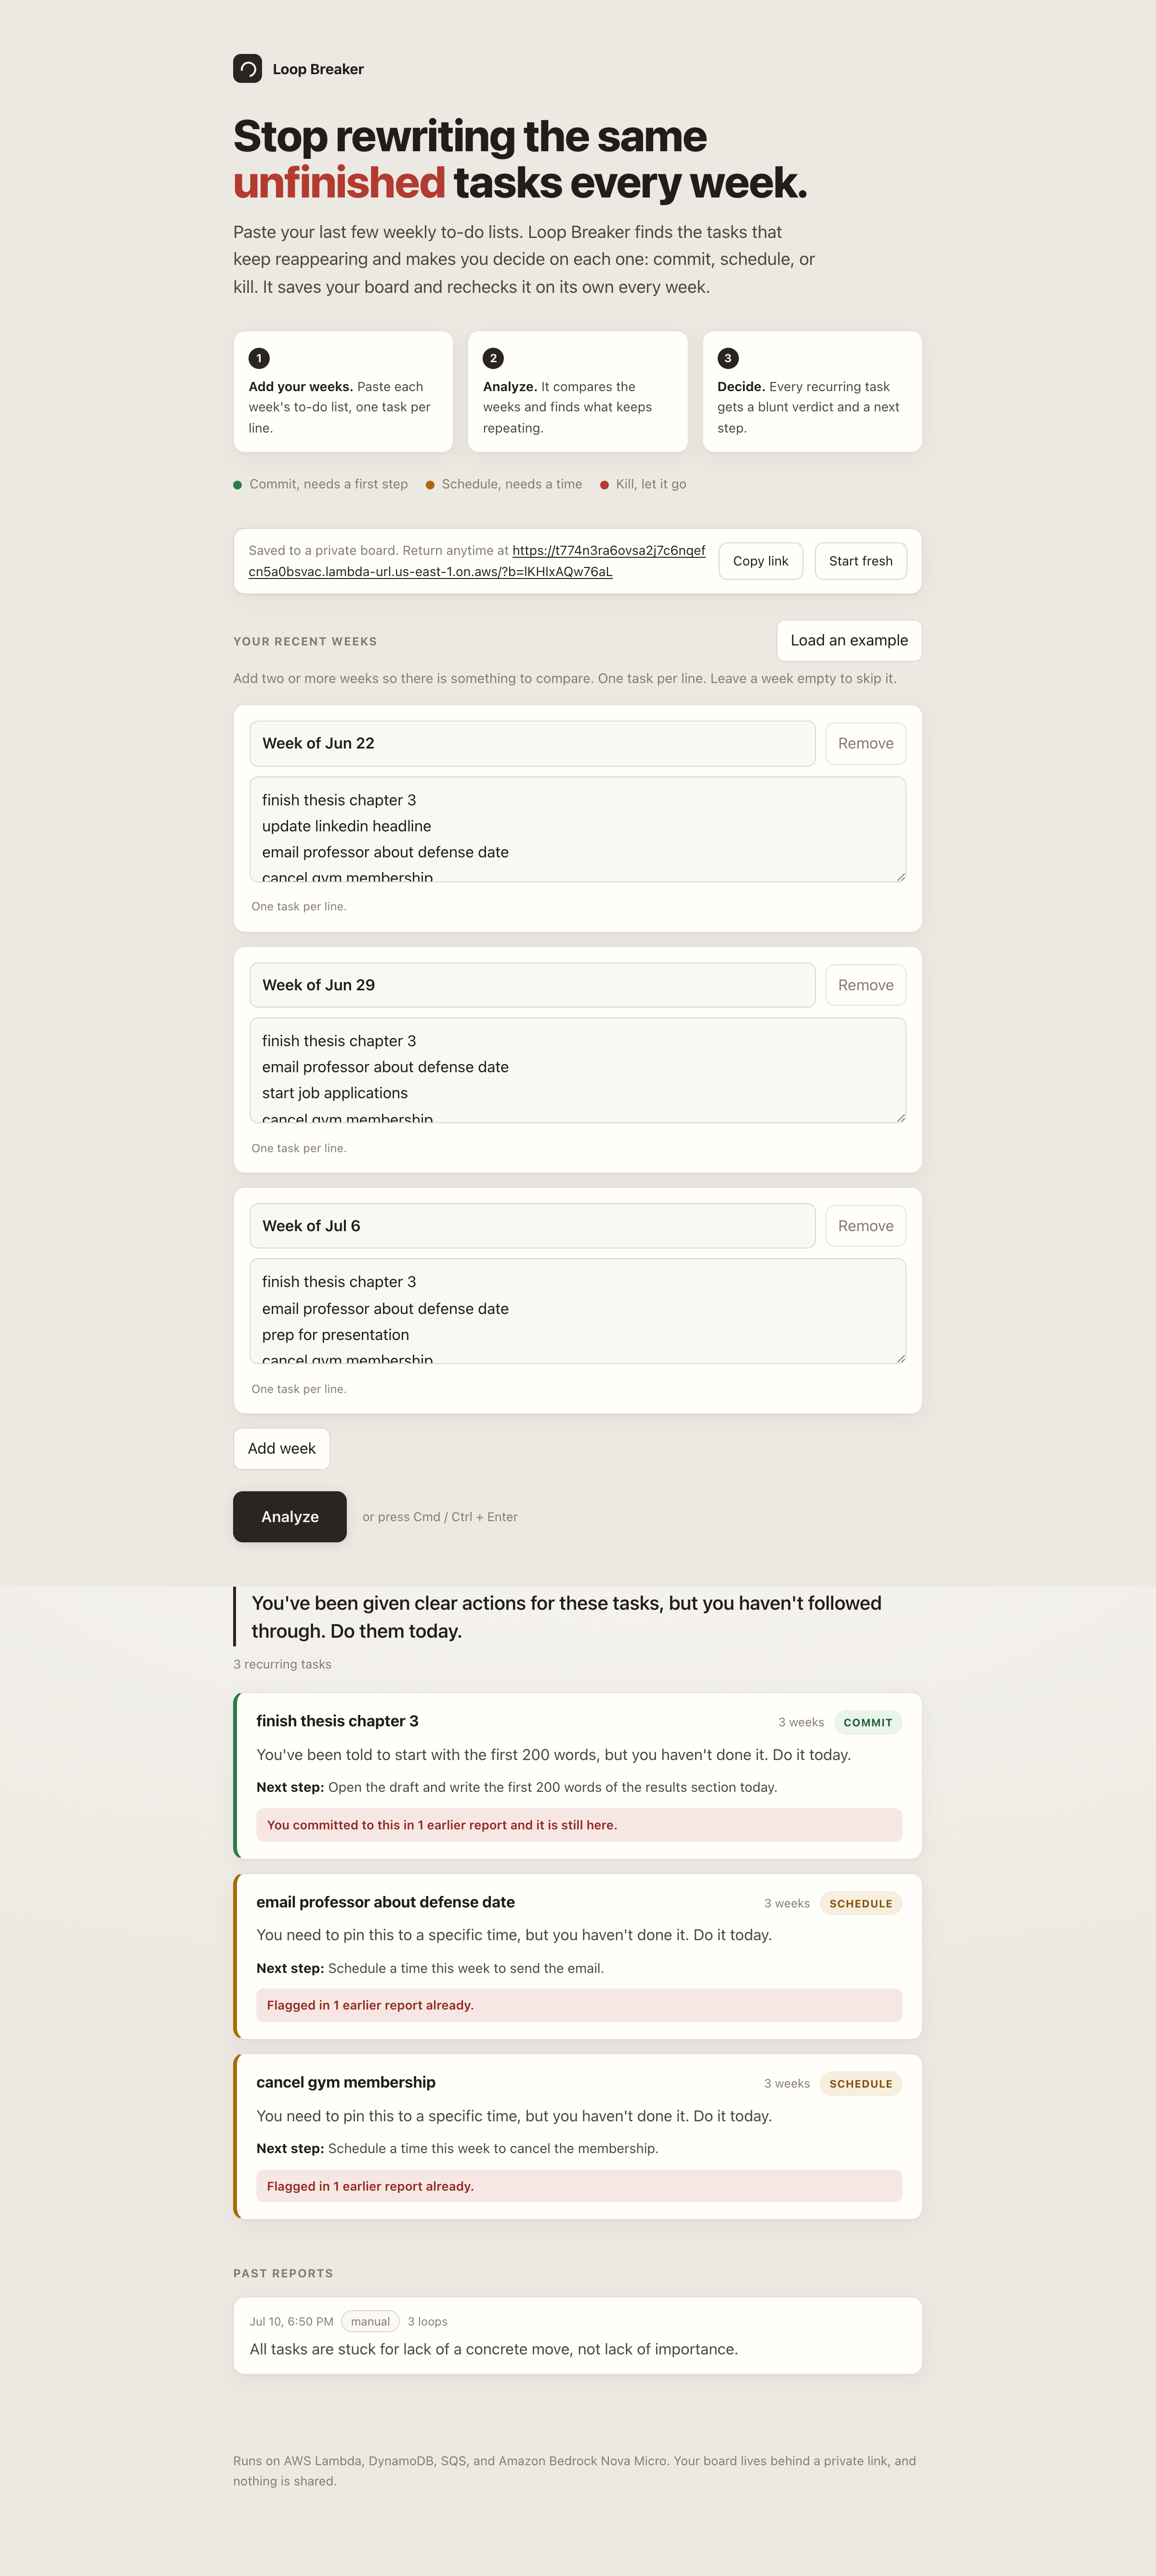
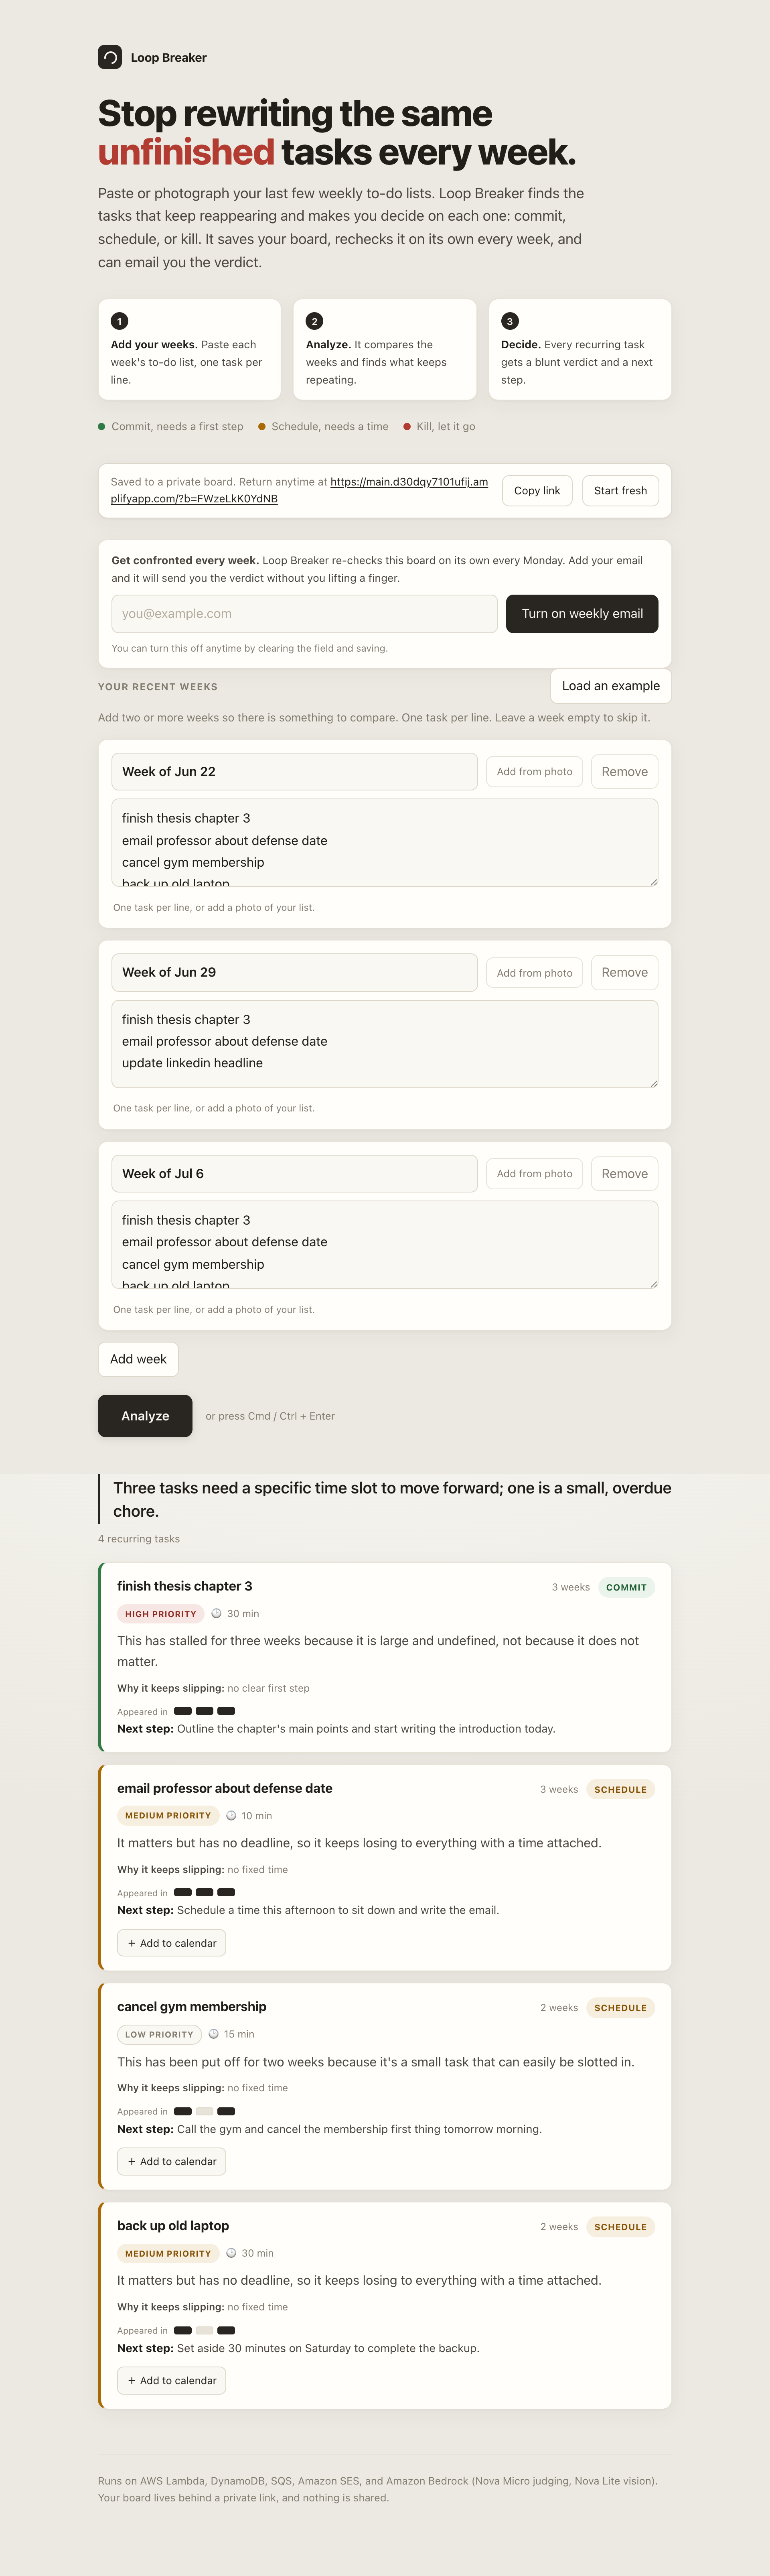
add challenge blog article and refresh screenshots for v3 UI

Changed region(s): [[0.125, 0.0, 0.875, 0.9368]]

diff --git a/BLOG.md b/BLOG.md
@@ -1,0 +1,86 @@
+# Weekend Productivity Challenge: Loop Breaker
+
+Loop Breaker is a serverless app that finds the tasks you keep copying from one weekly to-do list to the next, then makes you decide on each one: commit, schedule, or kill. It runs entirely on AWS. Amplify hosts the frontend, a single Lambda behind a function URL runs the backend, DynamoDB stores the boards, SQS and EventBridge Scheduler drive a weekly re-check, Amazon SES sends the results by email, and Amazon Bedrock does the judging with the Nova Micro and Nova Lite models.
+
+## Vision & What the App Does
+
+I have tried a lot of to-do systems, and they all failed me the same way. Every Sunday I would write a fresh weekly list, and every week three or four tasks would quietly walk across from the last one. "Finish thesis chapter 3." "Back up the old laptop." "Cancel the gym membership." They were never hard. They were vague, mildly unpleasant, or things I secretly did not intend to do. A normal to-do app is happy to let you carry a task forever. It never asks the obvious question: if this has been on your list for three weeks, what is actually going on?
+
+Loop Breaker is my answer to that question. You keep a running board of your recent weekly lists. It looks across the weeks, finds the tasks that keep reappearing, and refuses to let them sit there unnamed. For each recurring task it gives you a verdict and a reason:
+
+- COMMIT when the task matters and the real blocker is that it is vague or daunting, so it needs a concrete first step today.
+- SCHEDULE when the task matters but keeps sliding because it has no fixed time, so it needs to be pinned to a slot.
+- KILL when the task does not actually matter enough to justify the space it keeps taking, and the honest move is to let it go.
+
+It does not stop at a label. Every card also carries a priority, a short line naming why that specific task keeps slipping, a rough effort estimate, and a first step you can act on. A small strip shows which weeks the task appeared in, so a three week loop looks different from a two week one at a glance. When a task was already flagged in an earlier report, the tone gets sharper, because being reminded gently for the third time is part of how these tasks survive.
+
+Two things make it feel less like a form and more like something watching your back. First, you do not have to type your lists. You can point your camera at a handwritten page or a screenshot and it reads the tasks straight off the image. Second, the board does not wait for you to come back. Once a week it re-checks itself and, if you left an email, it sends you the verdict without you lifting a finger.
+
+![Loop Breaker start screen](screenshots/01-empty.png)
+
+## AWS Services Used / Architecture Overview
+
+I wanted the smallest possible surface. No API Gateway, no S3 buckets for the site, no containers. Here is the shape of it:
+
+```
+Browser (AWS Amplify hosting)
+   |  HTTPS (JSON)
+   v
+AWS Lambda  (function URL)
+   |  reads/writes            |  judges           |  reads photos
+   v                          v                   v
+Amazon DynamoDB        Bedrock Nova Micro    Bedrock Nova Lite
+
+Weekly, on a schedule:
+EventBridge Scheduler -> Lambda (planner) -> SQS -> Lambda (worker)
+                                              |         |
+                                    dead-letter queue   -> Amazon SES (email)
+```
+
+- **AWS Amplify** hosts the single page frontend and redeploys it on every push to the main branch of the repo.
+- **AWS Lambda**, reached through a function URL, is the whole backend. The same function serves the JSON API, acts as the SQS worker, and is the target of the weekly schedule. It decides which job it is running by looking at the shape of the event it receives.
+- **Amazon DynamoDB** is a single table that stores each board and its history behind an unguessable link id, with a time to live on old reports so they age out on their own.
+- **Amazon SQS** carries one message per board during the weekly sweep, with a dead-letter queue so a failed run can be replayed instead of lost.
+- **Amazon EventBridge Scheduler** wakes the app up once a week to start that sweep.
+- **Amazon SES** sends the weekly confrontation email.
+- **Amazon Bedrock** does the reasoning. Nova Micro handles the verdicts because it is fast and cheap enough to call on every review, and Nova Lite, which is multimodal, reads the photos of to-do lists.
+
+## How I Built It
+
+I set one rule at the start and let it shape everything: the code decides what is wrong, and the model only explains it.
+
+The part that decides what actually recurs is plain Python, and it never touches AWS. It normalizes each task, groups tasks that mean the same thing across weeks even when the wording drifts ("email professor" and "email professor about defense date" are the same loop), and counts how many distinct weeks each group spans. Only groups that appear in two or more weeks survive. Because this is deterministic, the week counts are always right, a one-off task can never be mislabeled as a loop, and I could cover the whole thing with unit tests that run in a tenth of a second. If nothing recurs, the app answers instantly and never calls a model at all.
+
+Only then does Bedrock enter. Nova Micro gets the tasks that already passed the recurrence check, along with how many earlier reports flagged each one, and its job is judgment: the verdict, the reasoning, the priority, and the next step. It is not allowed to invent tasks or change the counts. Anything it adds that does not match a task the code already found gets dropped before it reaches the screen, and if the model times out or returns something that is not valid JSON, the deterministic result is still there to fall back on.
+
+![Filling in three weeks of lists](screenshots/02-input.png)
+
+The autonomous weekly check was the piece I most wanted to get right, because it is what separates a tool you have to remember from one that remembers you. A schedule fires once a week and runs the app in "planner" mode, where it lists every active board and drops one message per board onto an SQS queue. Each message triggers the same Lambda in "worker" mode, which re-confronts that board, stores a fresh report, and emails it out. Fanning the work through a queue keeps each run short and cheap, and the dead-letter queue means one bad board does not sink the whole sweep.
+
+A few things fought back along the way.
+
+The first was the Lambda function URL. It wraps the incoming HTTP request in a stringified body, so my first attempts to read the posted JSON came back empty until I parsed the body envelope myself. This is a small thing that costs you an hour the first time you meet it.
+
+The second was more interesting and only showed up once I moved the frontend onto Amplify. Suddenly every request from the site failed. The browser was rejecting the response because the `Access-Control-Allow-Origin` header had two values in it. It turned out both the function URL's own CORS configuration and my Lambda code were each adding the header, and same-origin testing had hidden the duplicate completely, because a browser only checks CORS when the request is cross-origin. The fix was to pick one owner for CORS. I let the application code handle it and removed the configuration from the function URL. I would not have caught this without driving the live site from the Amplify domain, which is a good argument for testing the real thing rather than the local copy.
+
+The third was keeping Nova Micro honest. Early on it liked to reach for KILL whenever a task repeated, as if repetition were the crime. Most recurring tasks are not junk, they are just stuck, so I rewrote the instructions to treat KILL as the rare case and to lean toward COMMIT or SCHEDULE, and to get sharper, not softer, when it sees a task it has already flagged before.
+
+![The verdicts, with priority, effort, and a loop history strip](screenshots/03-results.png)
+
+## What I Learned
+
+Putting deterministic code in front of the model was the decision that made the project work. The findings are trustworthy because they come from code I can test, not from output I have to second-guess, and the layer that matters never depends on the network being up. That pattern, let the code decide and let the model explain, is the thing I will carry into the next build.
+
+Nova Micro surprised me on price and speed. For short, structured judgment work like this, a small specialized model is not a compromise, it is the right tool, and it costs a fraction of a cent per review. Nova Lite reading a photo of a scribbled list on the first try was the moment the app stopped feeling like a form.
+
+I also got a real feel for decoupling. It would have been easy to loop over every board inside one Lambda during the weekly sweep, and it would have worked until it did not. Pushing each board through SQS with a dead-letter queue turned a fragile batch job into something that stays short, retries on its own, and never loses a board.
+
+The last lesson was about which feature actually mattered. Everything up to that point produced a report you had to come back and read. The weekly email was small to add, but it is the thing that turns Loop Breaker from a page you visit into something that shows up and confronts you on its own. That is the whole point of the app, and it only existed once the app could act without me.
+
+## Link to App or Repo
+
+Live app: https://main.d30dqy7101ufij.amplifyapp.com/
+
+Source code: https://github.com/Yashbhadiyadra/loop-breaker
+
+#productivity #challenge #aws-amplify #amazon-bedrock #amazon-nova #amazon-dynamodb #aws-lambda #serverless